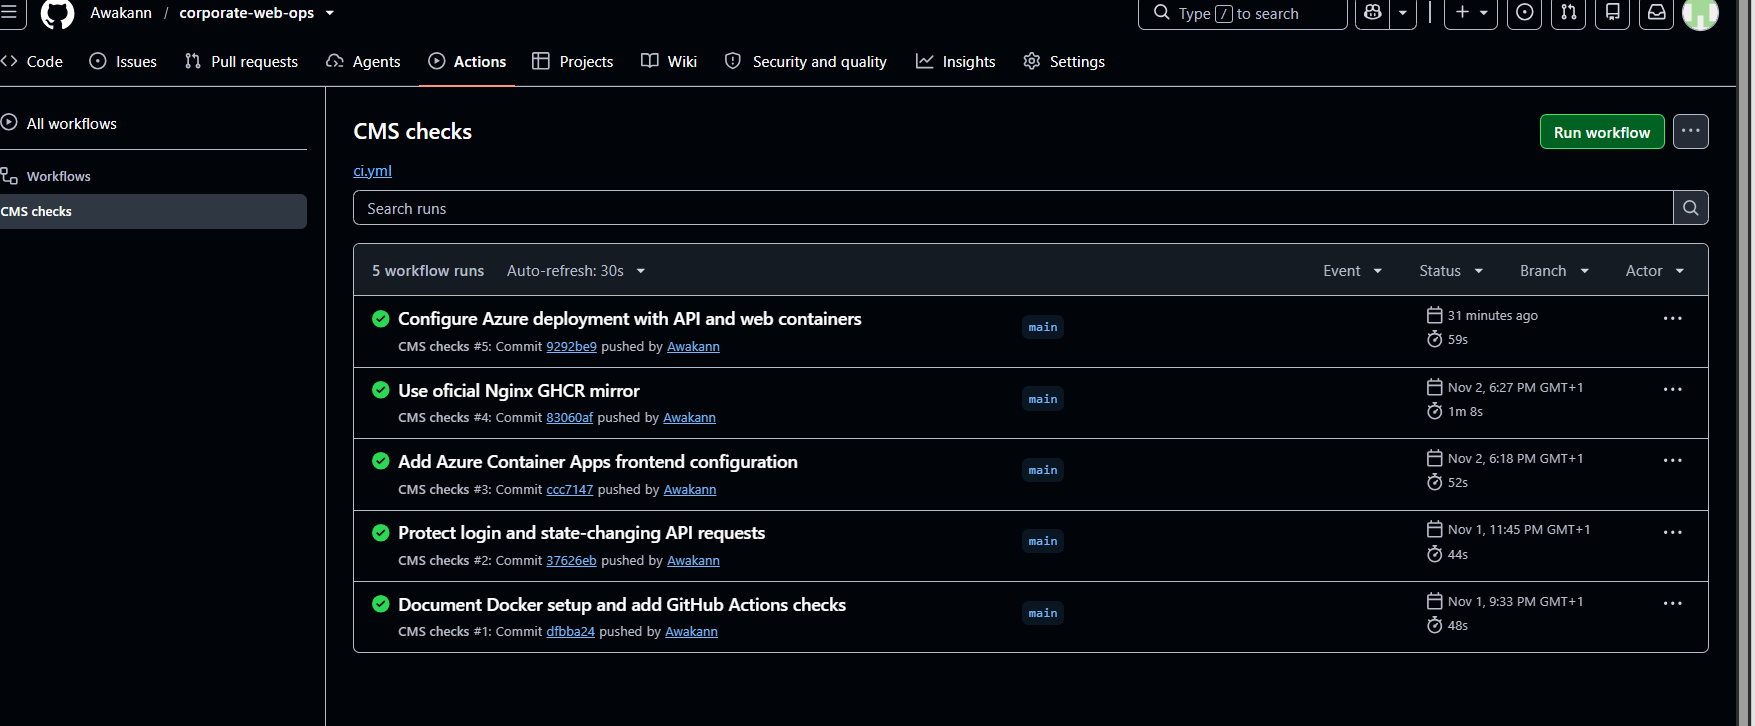
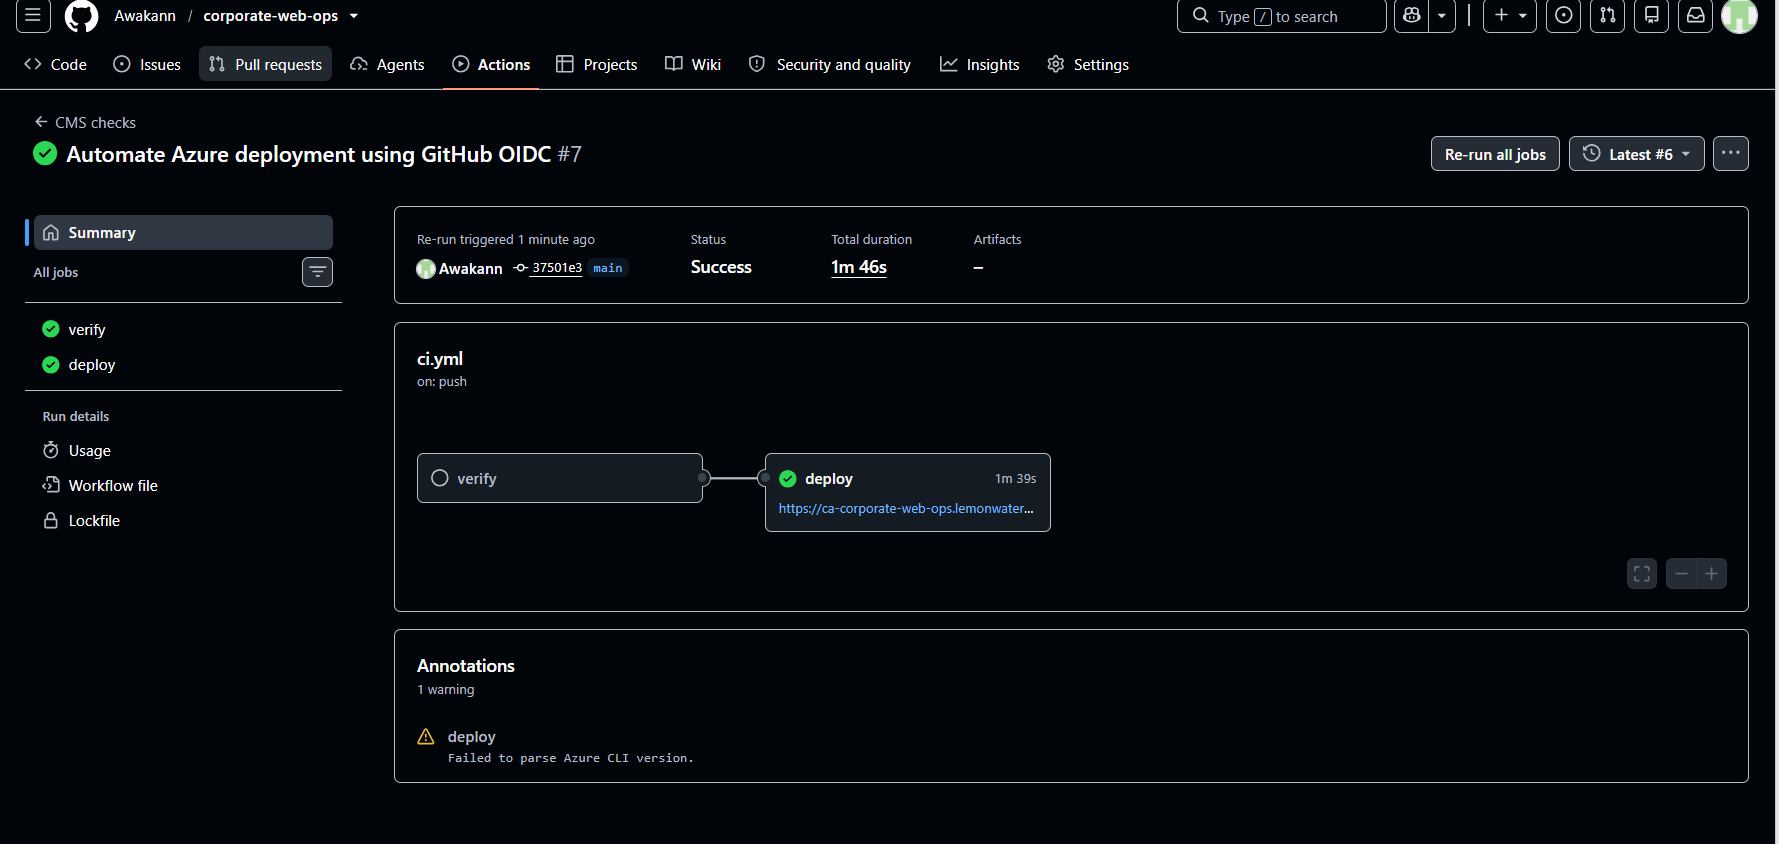
Document verified Azure CI/CD pipeline

diff --git a/README.md b/README.md
@@ -173,7 +173,7 @@ Verified after deployment:
 - Logout.
 - API health and database reads.
 
-Deployment is currently performed manually. Automated cloud deployment and comprehensive API tests are planned.
+GitHub Actions automatically deploys commits on main after verification passes. Deployment uses Azure OIDC authentication, commit-tagged container images, revision-readiness checks, and deployed endpoint checks. Comprehensive API tests are planned.
 
 ## Troubleshooting Experience
 
@@ -226,7 +226,6 @@ For frontend development instructions, see [client/README.md](client/README.md).
 
 ## Planned Improvements
 
-- Automated Azure deployment using GitHub Actions and OIDC.
 - API tests for authentication, permissions, and publishing.
 - Infrastructure provisioning with Bicep or Terraform.
 - Monitoring, cost alerts, and a durable database network-access setup.
